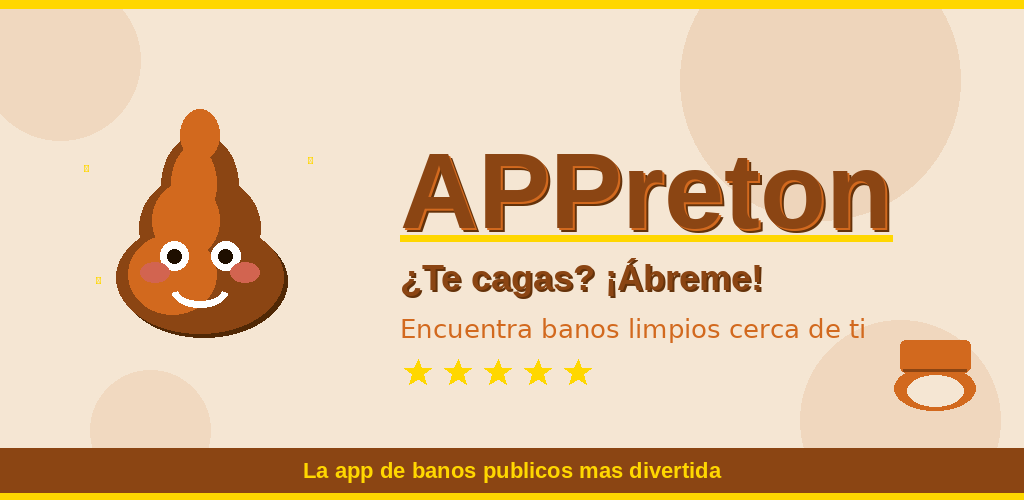
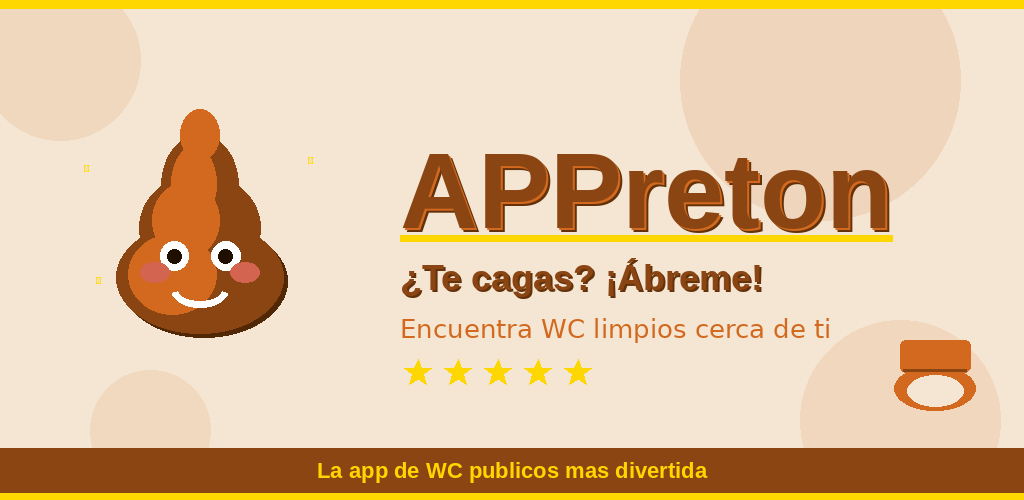
feat: Update feature graphic text - banos → WC
https://claude.ai/code/session_01PPwzrG5xWcu8Q46udshmyi

Changed region(s): [[0.5312, 0.63, 0.8438, 0.69], [0.2812, 0.93, 0.7188, 0.96]]

diff --git a/generate_feature_graphic.py b/generate_feature_graphic.py
@@ -121,7 +121,7 @@ draw.text((tx,   tag_y),   tag_text, font=font_tag, fill=BROWN_DARK)
 
 # ── Sub-tagline ──────────────────────────────────────────────────────────────
 sub_y = tag_y + 56
-sub_text = "Encuentra banos limpios cerca de ti"
+sub_text = "Encuentra WC limpios cerca de ti"
 draw.text((tx, sub_y), sub_text, font=font_sub, fill=BROWN_MID)
 
 # ── Small decorative toilet icon (bottom-right corner, away from text) ───────
@@ -151,7 +151,7 @@ for i in range(5):
 # ── Bottom tagline strip ──────────────────────────────────────────────────────
 draw.rectangle([0, H-52, W, H-8], fill=BROWN_DARK)
 bottom_font = ImageFont.truetype(FONT_BOLD, 22)
-bottom_text = "La app de banos publicos mas divertida"
+bottom_text = "La app de WC publicos mas divertida"
 btw = draw.textlength(bottom_text, font=bottom_font)
 draw.text(((W - btw) / 2, H-42), bottom_text, font=bottom_font, fill=GOLD)
 
